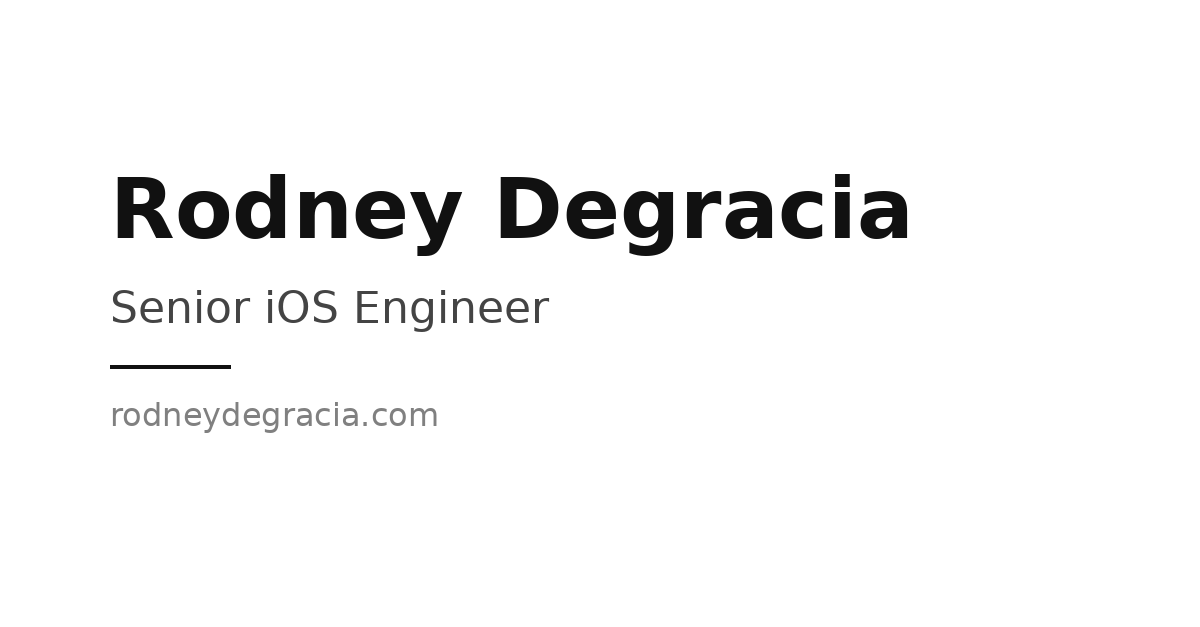
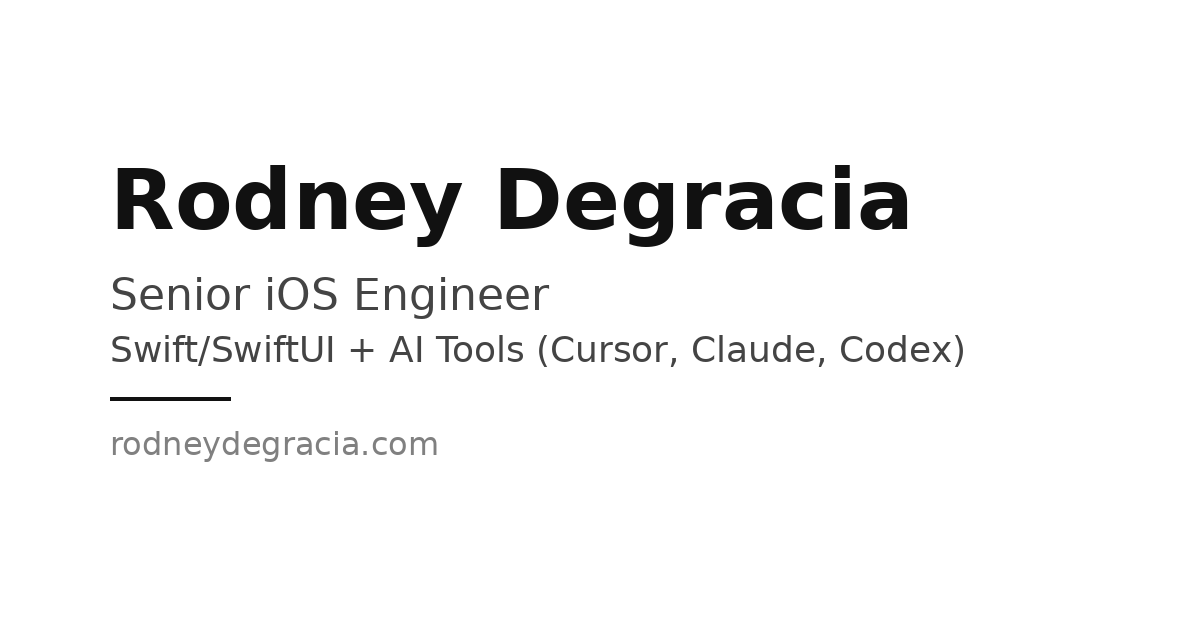
Update share image headline to match LinkedIn and set homepage og/twitter description
- assets/og-image.png: the second line now reads "Senior iOS Engineer | Swift/SwiftUI + AI Tools (Cursor, Claude, Codex)".
  On one line it didn't fit inside a 90px right margin even at 30px, so it
  wraps at the " | " break: "Senior iOS Engineer" (44px) over
  "Swift/SwiftUI + AI Tools (Cursor, Claude, Codex)" (36px), both dark gray.
  The bold name, thin rule and domain line are unchanged, and the block is
  re-centered vertically. Still 1200x627, opaque white RGB.
- index.html: og:description and twitter:description set to
  "Senior iOS Engineer | Swift/SwiftUI + AI Tools (Cursor, Claude, Codex)";
  meta name="description" unchanged.
- All 11 pages: og:image:alt and twitter:image:alt updated to match the new
  image text.

Changed region(s): [[0.0925, 0.4242, 0.8017, 0.7273], [0.0925, 0.2424, 0.7708, 0.4242]]

diff --git a/index.html b/index.html
@@ -7,19 +7,19 @@
   <meta name="description" content="Senior iOS Engineer | Swift • SwiftUI • AI-Augmented Development">
   <link rel="canonical" href="https://rodneydegracia.com/">
   <meta property="og:title" content="Rodney Degracia">
-  <meta property="og:description" content="Senior iOS Engineer | Swift • SwiftUI • AI-Augmented Development">
+  <meta property="og:description" content="Senior iOS Engineer | Swift/SwiftUI + AI Tools (Cursor, Claude, Codex)">
   <meta property="og:url" content="https://rodneydegracia.com/">
   <meta property="og:type" content="website">
   <meta property="og:site_name" content="Rodney Degracia">
   <meta property="og:image" content="https://rodneydegracia.com/assets/og-image.png">
   <meta property="og:image:width" content="1200">
   <meta property="og:image:height" content="627">
-  <meta property="og:image:alt" content="Rodney Degracia, Senior iOS Engineer, rodneydegracia.com">
+  <meta property="og:image:alt" content="Rodney Degracia, Senior iOS Engineer | Swift/SwiftUI + AI Tools (Cursor, Claude, Codex), rodneydegracia.com">
   <meta name="twitter:card" content="summary_large_image">
   <meta name="twitter:title" content="Rodney Degracia">
-  <meta name="twitter:description" content="Senior iOS Engineer | Swift • SwiftUI • AI-Augmented Development">
+  <meta name="twitter:description" content="Senior iOS Engineer | Swift/SwiftUI + AI Tools (Cursor, Claude, Codex)">
   <meta name="twitter:image" content="https://rodneydegracia.com/assets/og-image.png">
-  <meta name="twitter:image:alt" content="Rodney Degracia, Senior iOS Engineer, rodneydegracia.com">
+  <meta name="twitter:image:alt" content="Rodney Degracia, Senior iOS Engineer | Swift/SwiftUI + AI Tools (Cursor, Claude, Codex), rodneydegracia.com">
   <link href="https://cdn.jsdelivr.net/npm/bootstrap@5.3.3/dist/css/bootstrap.min.css" rel="stylesheet"
     integrity="sha384-QWTKZyjpPEjISv5WaRU9OFeRpok6YctnYmDr5pNlyT2bRjXh0JMhjY6hW+ALEwIH" crossorigin="anonymous">
   <link rel="preconnect" href="https://fonts.googleapis.com">

diff --git a/super-duper/index.html b/super-duper/index.html
@@ -14,12 +14,12 @@
   <meta property="og:image" content="https://rodneydegracia.com/assets/og-image.png">
   <meta property="og:image:width" content="1200">
   <meta property="og:image:height" content="627">
-  <meta property="og:image:alt" content="Rodney Degracia, Senior iOS Engineer, rodneydegracia.com">
+  <meta property="og:image:alt" content="Rodney Degracia, Senior iOS Engineer | Swift/SwiftUI + AI Tools (Cursor, Claude, Codex), rodneydegracia.com">
   <meta name="twitter:card" content="summary_large_image">
   <meta name="twitter:title" content="super-duper — Rodney Degracia">
   <meta name="twitter:description" content="Case study: super-duper — a planning and execution CLI that turns a goal into a hierarchical plan, fulfills leaf tasks, and writes validated artifacts to disk.">
   <meta name="twitter:image" content="https://rodneydegracia.com/assets/og-image.png">
-  <meta name="twitter:image:alt" content="Rodney Degracia, Senior iOS Engineer, rodneydegracia.com">
+  <meta name="twitter:image:alt" content="Rodney Degracia, Senior iOS Engineer | Swift/SwiftUI + AI Tools (Cursor, Claude, Codex), rodneydegracia.com">
   <link href="https://cdn.jsdelivr.net/npm/bootstrap@5.3.3/dist/css/bootstrap.min.css" rel="stylesheet"
     integrity="sha384-QWTKZyjpPEjISv5WaRU9OFeRpok6YctnYmDr5pNlyT2bRjXh0JMhjY6hW+ALEwIH" crossorigin="anonymous">
   <link rel="preconnect" href="https://fonts.googleapis.com">

diff --git a/greenfield/index.html b/greenfield/index.html
@@ -14,12 +14,12 @@
   <meta property="og:image" content="https://rodneydegracia.com/assets/og-image.png">
   <meta property="og:image:width" content="1200">
   <meta property="og:image:height" content="627">
-  <meta property="og:image:alt" content="Rodney Degracia, Senior iOS Engineer, rodneydegracia.com">
+  <meta property="og:image:alt" content="Rodney Degracia, Senior iOS Engineer | Swift/SwiftUI + AI Tools (Cursor, Claude, Codex), rodneydegracia.com">
   <meta name="twitter:card" content="summary_large_image">
   <meta name="twitter:title" content="Greenfield — Rodney Degracia">
   <meta name="twitter:description" content="Case study: Greenfield — a spec-first harness for building a new app one verified unit at a time. Python CLI · OpenAI · stdlib HTTP or FastAPI scaffolds.">
   <meta name="twitter:image" content="https://rodneydegracia.com/assets/og-image.png">
-  <meta name="twitter:image:alt" content="Rodney Degracia, Senior iOS Engineer, rodneydegracia.com">
+  <meta name="twitter:image:alt" content="Rodney Degracia, Senior iOS Engineer | Swift/SwiftUI + AI Tools (Cursor, Claude, Codex), rodneydegracia.com">
   <link href="https://cdn.jsdelivr.net/npm/bootstrap@5.3.3/dist/css/bootstrap.min.css" rel="stylesheet"
     integrity="sha384-QWTKZyjpPEjISv5WaRU9OFeRpok6YctnYmDr5pNlyT2bRjXh0JMhjY6hW+ALEwIH" crossorigin="anonymous">
   <link rel="preconnect" href="https://fonts.googleapis.com">

diff --git a/llm-platform/index.html b/llm-platform/index.html
@@ -14,12 +14,12 @@
   <meta property="og:image" content="https://rodneydegracia.com/assets/og-image.png">
   <meta property="og:image:width" content="1200">
   <meta property="og:image:height" content="627">
-  <meta property="og:image:alt" content="Rodney Degracia, Senior iOS Engineer, rodneydegracia.com">
+  <meta property="og:image:alt" content="Rodney Degracia, Senior iOS Engineer | Swift/SwiftUI + AI Tools (Cursor, Claude, Codex), rodneydegracia.com">
   <meta name="twitter:card" content="summary_large_image">
   <meta name="twitter:title" content="llm-platform — Rodney Degracia">
   <meta name="twitter:description" content="Case study: llm-platform — a capability-agnostic LLM tool-calling runtime with a plugin host. Python · LiteLLM Completions · YAML config · plugins.">
   <meta name="twitter:image" content="https://rodneydegracia.com/assets/og-image.png">
-  <meta name="twitter:image:alt" content="Rodney Degracia, Senior iOS Engineer, rodneydegracia.com">
+  <meta name="twitter:image:alt" content="Rodney Degracia, Senior iOS Engineer | Swift/SwiftUI + AI Tools (Cursor, Claude, Codex), rodneydegracia.com">
   <link href="https://cdn.jsdelivr.net/npm/bootstrap@5.3.3/dist/css/bootstrap.min.css" rel="stylesheet"
     integrity="sha384-QWTKZyjpPEjISv5WaRU9OFeRpok6YctnYmDr5pNlyT2bRjXh0JMhjY6hW+ALEwIH" crossorigin="anonymous">
   <link rel="preconnect" href="https://fonts.googleapis.com">

diff --git a/ultra-trace/index.html b/ultra-trace/index.html
@@ -14,12 +14,12 @@
   <meta property="og:image" content="https://rodneydegracia.com/assets/og-image.png">
   <meta property="og:image:width" content="1200">
   <meta property="og:image:height" content="627">
-  <meta property="og:image:alt" content="Rodney Degracia, Senior iOS Engineer, rodneydegracia.com">
+  <meta property="og:image:alt" content="Rodney Degracia, Senior iOS Engineer | Swift/SwiftUI + AI Tools (Cursor, Claude, Codex), rodneydegracia.com">
   <meta name="twitter:card" content="summary_large_image">
   <meta name="twitter:title" content="ultra-trace — Rodney Degracia">
   <meta name="twitter:description" content="Case study: ultra-trace — deterministic Swift static analysis with an assist/gate split. Python · Swift Core · optional Advanced SIL.">
   <meta name="twitter:image" content="https://rodneydegracia.com/assets/og-image.png">
-  <meta name="twitter:image:alt" content="Rodney Degracia, Senior iOS Engineer, rodneydegracia.com">
+  <meta name="twitter:image:alt" content="Rodney Degracia, Senior iOS Engineer | Swift/SwiftUI + AI Tools (Cursor, Claude, Codex), rodneydegracia.com">
   <link href="https://cdn.jsdelivr.net/npm/bootstrap@5.3.3/dist/css/bootstrap.min.css" rel="stylesheet"
     integrity="sha384-QWTKZyjpPEjISv5WaRU9OFeRpok6YctnYmDr5pNlyT2bRjXh0JMhjY6hW+ALEwIH" crossorigin="anonymous">
   <link rel="preconnect" href="https://fonts.googleapis.com">

diff --git a/world-sim/index.html b/world-sim/index.html
@@ -14,12 +14,12 @@
   <meta property="og:image" content="https://rodneydegracia.com/assets/og-image.png">
   <meta property="og:image:width" content="1200">
   <meta property="og:image:height" content="627">
-  <meta property="og:image:alt" content="Rodney Degracia, Senior iOS Engineer, rodneydegracia.com">
+  <meta property="og:image:alt" content="Rodney Degracia, Senior iOS Engineer | Swift/SwiftUI + AI Tools (Cursor, Claude, Codex), rodneydegracia.com">
   <meta name="twitter:card" content="summary_large_image">
   <meta name="twitter:title" content="World-Sim — Rodney Degracia">
   <meta name="twitter:description" content="Case study: World-Sim — a local narrative simulation with split storage, grounded play modes, and a companion World Builder.">
   <meta name="twitter:image" content="https://rodneydegracia.com/assets/og-image.png">
-  <meta name="twitter:image:alt" content="Rodney Degracia, Senior iOS Engineer, rodneydegracia.com">
+  <meta name="twitter:image:alt" content="Rodney Degracia, Senior iOS Engineer | Swift/SwiftUI + AI Tools (Cursor, Claude, Codex), rodneydegracia.com">
   <link href="https://cdn.jsdelivr.net/npm/bootstrap@5.3.3/dist/css/bootstrap.min.css" rel="stylesheet"
     integrity="sha384-QWTKZyjpPEjISv5WaRU9OFeRpok6YctnYmDr5pNlyT2bRjXh0JMhjY6hW+ALEwIH" crossorigin="anonymous">
   <link rel="preconnect" href="https://fonts.googleapis.com">

diff --git a/lorebuilder/index.html b/lorebuilder/index.html
@@ -14,12 +14,12 @@
   <meta property="og:image" content="https://rodneydegracia.com/assets/og-image.png">
   <meta property="og:image:width" content="1200">
   <meta property="og:image:height" content="627">
-  <meta property="og:image:alt" content="Rodney Degracia, Senior iOS Engineer, rodneydegracia.com">
+  <meta property="og:image:alt" content="Rodney Degracia, Senior iOS Engineer | Swift/SwiftUI + AI Tools (Cursor, Claude, Codex), rodneydegracia.com">
   <meta name="twitter:card" content="summary_large_image">
   <meta name="twitter:title" content="LoreBuilder CLI — Rodney Degracia">
   <meta name="twitter:description" content="Case study: LoreBuilder CLI — a persistent world you can talk to. Python CLI · RAG + Chroma · SQLite sessions.">
   <meta name="twitter:image" content="https://rodneydegracia.com/assets/og-image.png">
-  <meta name="twitter:image:alt" content="Rodney Degracia, Senior iOS Engineer, rodneydegracia.com">
+  <meta name="twitter:image:alt" content="Rodney Degracia, Senior iOS Engineer | Swift/SwiftUI + AI Tools (Cursor, Claude, Codex), rodneydegracia.com">
   <link href="https://cdn.jsdelivr.net/npm/bootstrap@5.3.3/dist/css/bootstrap.min.css" rel="stylesheet"
     integrity="sha384-QWTKZyjpPEjISv5WaRU9OFeRpok6YctnYmDr5pNlyT2bRjXh0JMhjY6hW+ALEwIH" crossorigin="anonymous">
   <link rel="preconnect" href="https://fonts.googleapis.com">

diff --git a/maximus/index.html b/maximus/index.html
@@ -14,12 +14,12 @@
   <meta property="og:image" content="https://rodneydegracia.com/assets/og-image.png">
   <meta property="og:image:width" content="1200">
   <meta property="og:image:height" content="627">
-  <meta property="og:image:alt" content="Rodney Degracia, Senior iOS Engineer, rodneydegracia.com">
+  <meta property="og:image:alt" content="Rodney Degracia, Senior iOS Engineer | Swift/SwiftUI + AI Tools (Cursor, Claude, Codex), rodneydegracia.com">
   <meta name="twitter:card" content="summary_large_image">
   <meta name="twitter:title" content="Maximus — Rodney Degracia">
   <meta name="twitter:description" content="Case study: Maximus — an LLM harness for contest ML, with a human on the train gate. Python · CLI + MCP · gated train.">
   <meta name="twitter:image" content="https://rodneydegracia.com/assets/og-image.png">
-  <meta name="twitter:image:alt" content="Rodney Degracia, Senior iOS Engineer, rodneydegracia.com">
+  <meta name="twitter:image:alt" content="Rodney Degracia, Senior iOS Engineer | Swift/SwiftUI + AI Tools (Cursor, Claude, Codex), rodneydegracia.com">
   <link href="https://cdn.jsdelivr.net/npm/bootstrap@5.3.3/dist/css/bootstrap.min.css" rel="stylesheet"
     integrity="sha384-QWTKZyjpPEjISv5WaRU9OFeRpok6YctnYmDr5pNlyT2bRjXh0JMhjY6hW+ALEwIH" crossorigin="anonymous">
   <link rel="preconnect" href="https://fonts.googleapis.com">

diff --git a/bugmiester/index.html b/bugmiester/index.html
@@ -14,12 +14,12 @@
   <meta property="og:image" content="https://rodneydegracia.com/assets/og-image.png">
   <meta property="og:image:width" content="1200">
   <meta property="og:image:height" content="627">
-  <meta property="og:image:alt" content="Rodney Degracia, Senior iOS Engineer, rodneydegracia.com">
+  <meta property="og:image:alt" content="Rodney Degracia, Senior iOS Engineer | Swift/SwiftUI + AI Tools (Cursor, Claude, Codex), rodneydegracia.com">
   <meta name="twitter:card" content="summary_large_image">
   <meta name="twitter:title" content="Bugmiester — Rodney Degracia">
   <meta name="twitter:description" content="Case study: Bugmiester — a localhost trainer for Swift bug-spotting. Python · FastAPI · free-text scoring.">
   <meta name="twitter:image" content="https://rodneydegracia.com/assets/og-image.png">
-  <meta name="twitter:image:alt" content="Rodney Degracia, Senior iOS Engineer, rodneydegracia.com">
+  <meta name="twitter:image:alt" content="Rodney Degracia, Senior iOS Engineer | Swift/SwiftUI + AI Tools (Cursor, Claude, Codex), rodneydegracia.com">
   <link href="https://cdn.jsdelivr.net/npm/bootstrap@5.3.3/dist/css/bootstrap.min.css" rel="stylesheet"
     integrity="sha384-QWTKZyjpPEjISv5WaRU9OFeRpok6YctnYmDr5pNlyT2bRjXh0JMhjY6hW+ALEwIH" crossorigin="anonymous">
   <link rel="preconnect" href="https://fonts.googleapis.com">

diff --git a/desktopper/index.html b/desktopper/index.html
@@ -14,12 +14,12 @@
   <meta property="og:image" content="https://rodneydegracia.com/assets/og-image.png">
   <meta property="og:image:width" content="1200">
   <meta property="og:image:height" content="627">
-  <meta property="og:image:alt" content="Rodney Degracia, Senior iOS Engineer, rodneydegracia.com">
+  <meta property="og:image:alt" content="Rodney Degracia, Senior iOS Engineer | Swift/SwiftUI + AI Tools (Cursor, Claude, Codex), rodneydegracia.com">
   <meta name="twitter:card" content="summary_large_image">
   <meta name="twitter:title" content="Desktopper — Rodney Degracia">
   <meta name="twitter:description" content="Case study: Desktopper — ordinary language to a local schema-driven app. Python · SQLite · Safari.">
   <meta name="twitter:image" content="https://rodneydegracia.com/assets/og-image.png">
-  <meta name="twitter:image:alt" content="Rodney Degracia, Senior iOS Engineer, rodneydegracia.com">
+  <meta name="twitter:image:alt" content="Rodney Degracia, Senior iOS Engineer | Swift/SwiftUI + AI Tools (Cursor, Claude, Codex), rodneydegracia.com">
   <link href="https://cdn.jsdelivr.net/npm/bootstrap@5.3.3/dist/css/bootstrap.min.css" rel="stylesheet"
     integrity="sha384-QWTKZyjpPEjISv5WaRU9OFeRpok6YctnYmDr5pNlyT2bRjXh0JMhjY6hW+ALEwIH" crossorigin="anonymous">
   <link rel="preconnect" href="https://fonts.googleapis.com">

diff --git a/monitor/index.html b/monitor/index.html
@@ -14,12 +14,12 @@
   <meta property="og:image" content="https://rodneydegracia.com/assets/og-image.png">
   <meta property="og:image:width" content="1200">
   <meta property="og:image:height" content="627">
-  <meta property="og:image:alt" content="Rodney Degracia, Senior iOS Engineer, rodneydegracia.com">
+  <meta property="og:image:alt" content="Rodney Degracia, Senior iOS Engineer | Swift/SwiftUI + AI Tools (Cursor, Claude, Codex), rodneydegracia.com">
   <meta name="twitter:card" content="summary_large_image">
   <meta name="twitter:title" content="Monitor — Rodney Degracia">
   <meta name="twitter:description" content="Case study: Monitor — a personal AI coding agent CLI. Python · REPL + tools · task planning.">
   <meta name="twitter:image" content="https://rodneydegracia.com/assets/og-image.png">
-  <meta name="twitter:image:alt" content="Rodney Degracia, Senior iOS Engineer, rodneydegracia.com">
+  <meta name="twitter:image:alt" content="Rodney Degracia, Senior iOS Engineer | Swift/SwiftUI + AI Tools (Cursor, Claude, Codex), rodneydegracia.com">
   <link href="https://cdn.jsdelivr.net/npm/bootstrap@5.3.3/dist/css/bootstrap.min.css" rel="stylesheet"
     integrity="sha384-QWTKZyjpPEjISv5WaRU9OFeRpok6YctnYmDr5pNlyT2bRjXh0JMhjY6hW+ALEwIH" crossorigin="anonymous">
   <link rel="preconnect" href="https://fonts.googleapis.com">
